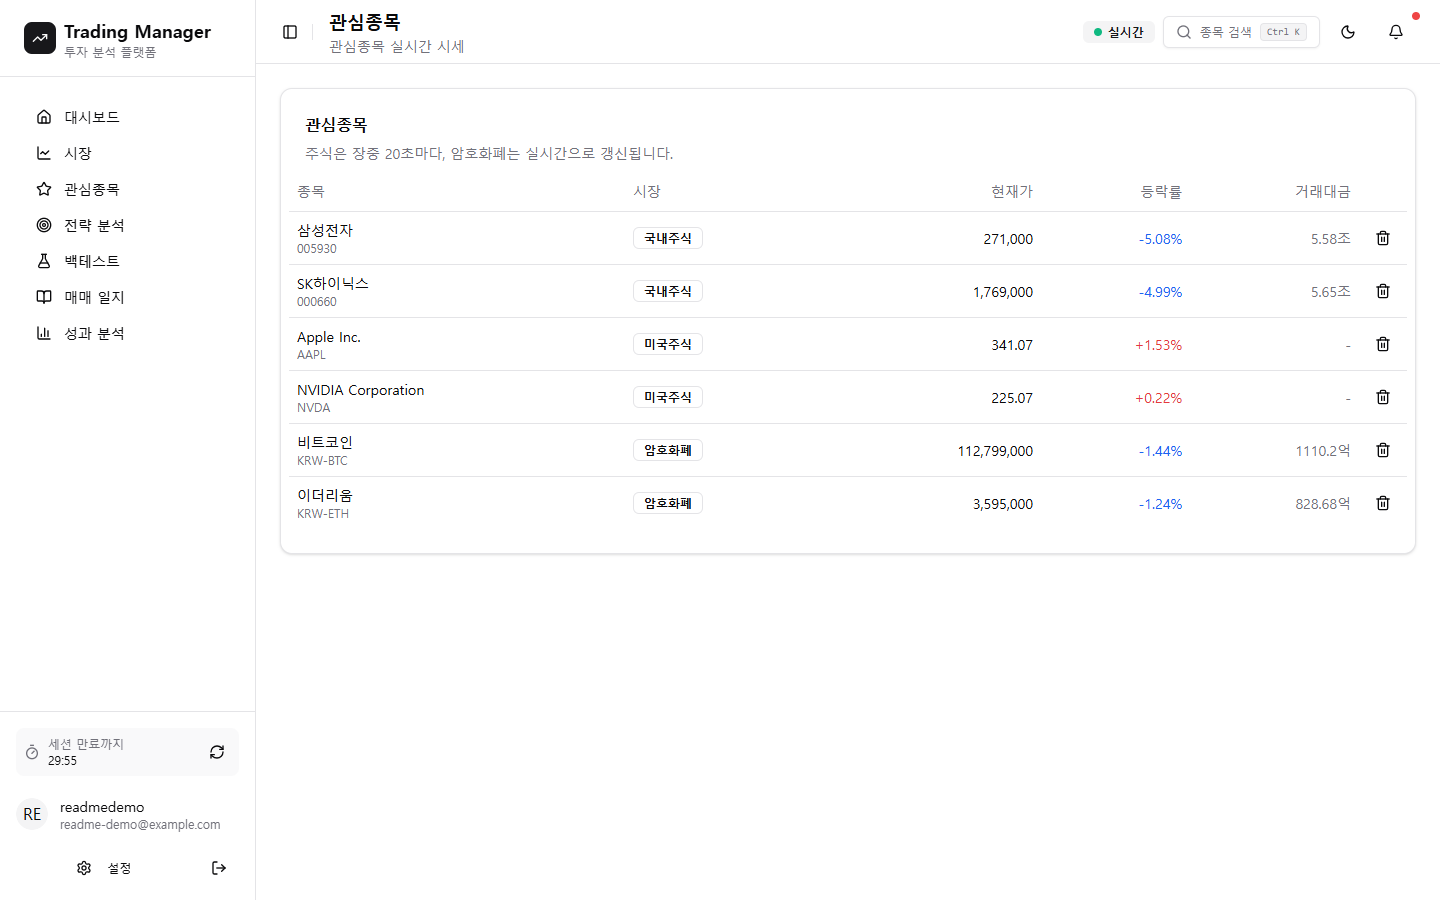
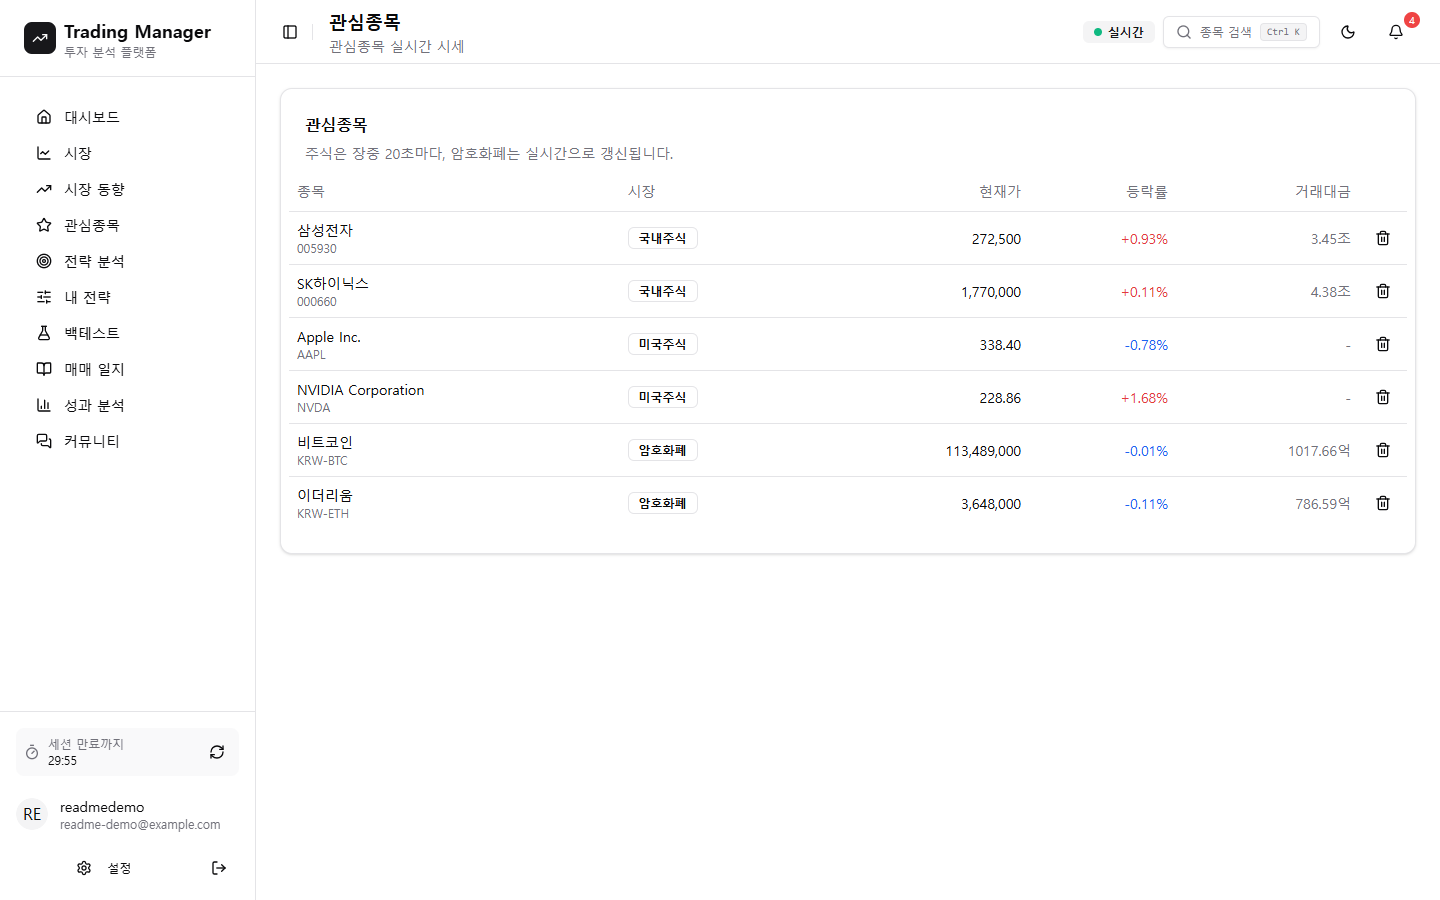
[Update] README 분석 근거·내 전략·시장 동향·커뮤니티 기능 반영
- 기능 절 추가: 시장 동향(브리핑·섹터 로테이션·코인), 내 전략(편집기·미리보기·밴드), 비교 백테스트, 일지 공유, 커뮤니티(전략·일지 게시글·알림·프로필·신고), 신고 관리
- 전략 분석 리포트에 계산 근거 패널·분석 방법 페이지 설명, 구성·계약·API·테스트 수·알려진 문제·로드맵 갱신
- 스크린샷 13장 추가·재촬영, 캡처 스크립트에 내 전략·공유 글·친구 계정(댓글·좋아요·팔로우) 시드와 경로 함수 지원
- CLAUDE.md: 모델 카탈로그/설정·동향·커뮤니티 구조와 enum CHECK 제약·@ActiveProfiles·HTTP/1.1 함정

diff --git a/CLAUDE.md b/CLAUDE.md
@@ -91,7 +91,7 @@ Strong success criteria let you loop independently. Weak criteria ("make it work
 
 ## Overview
 
-`tbill` — market data + charts (KR/US stocks, Upbit crypto) + a quantified strategy score/backtest + a trading journal. Three deployables in one repo, glued by HTTP (market data), Kafka (analysis jobs) and Redis (cache, results, pub/sub):
+`tbill` — market data + charts (KR/US stocks, Upbit crypto) + a quantified, explainable strategy score/backtest that users can customize ("내 전략"), market trends/briefing, a trading journal and a community. Three deployables in one repo, glued by HTTP (market data), Kafka (analysis jobs) and Redis (cache, results, pub/sub):
 
 - `backend-java/` — Spring Boot 3.3.1 / Java 21 REST API (`io.tbill.backendapi`). Owns all persisted data (PostgreSQL/JPA) and JWT auth. Port 8080.
 - `backend-python/` — one package (`app/`), three entrypoints: `app.api.main` (internal FastAPI market-data API, port 8000, `X-Internal-Token`), `app.worker.main` (Kafka analysis consumer), `app.stream.main` (Upbit realtime, single replica).
@@ -165,7 +165,19 @@ Java never calls Python over HTTP for analysis. The handoff is fire-and-forget o
 3. `AnalysisHandler` writes `RUNNING` (backtests add `progress`), then `SUCCESS` or `FAILED` — even for unparseable requests — to Redis at `analysis:{requestId}` (1h TTL, backtests 24h). Payloads are camelCase with `schemaVersion: 2`.
 4. The frontend polls `GET /api/v1/analysis/result/{id}` via `useAnalysisJob`. A cache miss returns `{"status": "PROCESSING"}`; a hit returns Python's JSON verbatim (Java deserializes to `Object` and re-emits, so the Python schema is the API contract — TS mirror in `frontend/src/types/strategy.types.ts`).
 
-The strategy model (`app/analysis/scoring/`, constants in `weights.py`, `MODEL_VERSION`) scores factors in [-1, 1], averages them per group over *available* factors, re-weights groups by coverage, and maps to `score = 50 + 50·C`. Invariant (tested): `50 + Σ factor.contribution == score`. Every factor is a pandas `Series → Series` function so the backtest (`app/analysis/backtest.py`) reuses exactly the live factors; fundamentals and breadth are excluded from backtests because there is no point-in-time history. Indicator formulas (Wilder RSI/ATR, population-σ Bollinger, SMA-seeded EMA) are duplicated in `frontend/src/lib/indicators.ts` for chart overlays — both are tested against the same StockCharts RSI fixture.
+The strategy model (`app/analysis/scoring/`, `MODEL_VERSION` in `weights.py`) scores factors in [-1, 1], averages them per group over *available* factors, re-weights groups by coverage, and maps to `score = 50 + 50·C`. Invariant (tested): `50 + Σ factor.contribution == score`. Every factor is a pandas `Series → Series` function so the backtest (`app/analysis/backtest.py`) reuses exactly the live factors; fundamentals and breadth are excluded from backtests because there is no point-in-time history. Indicator formulas (Wilder RSI/ATR, population-σ Bollinger, SMA-seeded EMA) are duplicated in `frontend/src/lib/indicators.ts` for chart overlays — both are tested against the same StockCharts RSI fixture.
+
+The model is **catalog + config**: `app/analysis/model/catalog.py` holds every factor's description, formula, params (default/min/max) and bands (points `xs→ys`, linear interpolation, clamped ends — `clip_lin(x,s)` is the band `[-s,s]→[-1,1]`); `model/config.py` `StrategyConfig` holds everything a user can change (group/subgroup/factor weights, enabled flags, params, bands, signal thresholds, regime gate, risk multiples). `parse_config(partial)` deep-merges onto the defaults and validates (`ConfigError` 422 with `errors[{path,msg}]`); the default config reproduces v1 exactly. Factor builders take `cfg` and emit `explain` (inputs, band position, weight path) — result `schemaVersion: 3`. The strategy cache key and results carry `config_hash(cfg)`; community strategy shares only accept a backtest whose `config.hash` equals the preset's `configHash`. The validation rules are duplicated in `frontend/src/lib/strategy-config.ts` and `interp` in `frontend/src/lib/bands.ts`.
+
+User presets (`domain/strategy`, `/api/v1/strategies`) store the Python-normalized full config JSON + hash; Java calls `POST /internal/v1/analysis/config/validate` on save. Analysis/backtest requests accept `presetId` (auth required, owner only) or inline `config`; `AnalysisController.applyStrategyConfig` resolves them into `parameters.config` so Python stays stateless.
+
+### Market trends & briefing
+
+`app/market/trends.py` computes sector rotation from sector ETFs (`app/market/sectors.py`: 19 KR, 11 US SPDR; one `yf.download` batch, FDR fallback): 1D/1W/1M/3M returns, excess vs benchmark, RRG-style quadrant (RS-ratio vs its 50-day mean, 10-day momentum) and a leader score. KR also gets Naver industry/theme day moves (`naver_provider.groups/group_stocks`), crypto gets CoinGecko categories (±50% day moves dropped as outliers) and Upbit trade concentration. `app/market/briefing.py` turns overview + regime + trends + movers into deterministic Korean sentences with `evidence`; templates live in the `T` dict and are pinned by tests. Snapshots `briefing:{market}:{date}` (30 days) + zset `briefing:dates:{market}`. Java passes these through as `JsonNode` (`/api/v1/market/trends|briefing`).
+
+### Community
+
+`domain/content` (posts, comments, likes, journal/strategy shares and import via `ShareService`) and `domain/social` (follow, notifications, reports). Responses expose `username` only (`AuthorDirectory`), never emails. Post bodies and journal reasoning HTML are cleaned server-side with jsoup (`global/utils/HtmlSanitizer`) and rendered only through `components/common/SafeHtml` (DOMPurify). Shares store a JSON snapshot in `content.attachment` (journal `hideAmounts` strips quantity/PnL server-side). Notifications are written by `@TransactionalEventListener` + `REQUIRES_NEW` from `CommunityEvents`; self-actions are skipped; the frontend polls `unread-count`. Hidden posts are visible only to their author (`ContentSpecs.visibleTo`). Admin endpoints (`presentation/admin`) use `@PreAuthorize("hasRole('ADMIN')")`; `users.role` drives `CustomUserDetails` authorities and is set by SQL.
 
 Two contracts must be kept in sync manually across languages:
 
@@ -177,7 +189,7 @@ Java serializes with Spring Kafka's `JsonSerializer` (camelCase, `spring.json.tr
 
 ### Java layering
 
-Package structure is a deliberate three-layer split, repeated per domain (`journal`, `user`, `auth`, `content`, `analysis`, `market`, `watchlist`):
+Package structure is a deliberate three-layer split, repeated per domain (`journal`, `user`, `auth`, `content`, `social`, `strategy`, `analysis`, `market`, `watchlist`):
 
 - `presentation/<domain>/` — `Controller` + `<Domain>ApiDto` (the HTTP wire shape: `CreateRequest`, `JournalResponse`, `PagedResponse<T>`).
 - `domain/<domain>/` — `entity`, `repository`, `service` (interface + `Impl`), and `<Domain>Dto` (the service-layer shape: `CreateCommand`, `UpdateCommand`, `SearchCondition`, `JournalInfo`, `Statistics`).
@@ -212,15 +224,18 @@ Python config is a single pydantic-settings `Settings` in `app/config.py` (env v
 - pykrx cross-sectional calls (`get_market_fundamental(date, market="ALL")`, market-wide OHLCV) now require a KRX login and return empty; only per-ticker OHLCV works. KR fundamentals therefore come from Naver (`naver_provider.py`) and are scored with absolute bands, not sector percentiles. Naver and yfinance are unofficial — when one breaks, the fallback chain/circuit breaker keeps the API up; upgrade the library (loose pins in `requirements.txt`).
 - The root `.gitignore` (Python template) ignores `lib/`; `!frontend/src/lib/` re-includes the frontend modules. Check `git check-ignore` before adding another `lib` directory.
 - Schema changes need a manual SQL in `backend-java/src/main/resources/db/manual/` for prod (`ddl-auto: validate`); local `update` never alters existing column types.
-- `global/common/ApiResponse.java`, `global/exception/ErrorCode.java`, `global/exception/CustomException.java`, and `global/exception/TbillExceptionHandler.java` are empty placeholder classes. Error responses actually come from `GlobalExceptionHandler`'s `ErrorResponse` record.
+- `global/common/ApiResponse.java`, `global/exception/ErrorCode.java`, `global/exception/CustomException.java`, and `global/exception/TbillExceptionHandler.java` are empty placeholder classes. Error responses actually come from `GlobalExceptionHandler`'s `ErrorResponse` record (`{code, message, errors?}`); throw `MarketException`/`CommunityException` (code + HTTP status) for API errors.
 - Several security classes are duplicated with only one wired in: `JwtProvider` (used) vs `JwtTokenProvider`, `CustomUserDetailsService` vs `UserDetailsServiceImpl`. Check `SecurityConfig` before extending either.
 - `infrastructure/kafka/consumer/ExampleEventProducer.java` and `infrastructure/kafka/producer/ExampleEventConsumer.java` have their producer/consumer roles swapped relative to their packages.
 - `AuthUtils.getCurrentUserEmail()` now throws `AuthenticationCredentialsNotFoundException` instead of falling back to `"test@example.com"`. `GlobalExceptionHandler` has an `AuthenticationException` handler that maps it to 401 — that handler is load-bearing, because `@RestControllerAdvice` intercepts before `ExceptionTranslationFilter`, so without it the generic `Exception` handler would return 500.
 - `frontend/` has both `package-lock.json` and `pnpm-lock.yaml`. Vite is aliased to `rolldown-vite` via `overrides`.
 - `frontend/src/types/trading.ts` and `trade.types.ts` are unused leftovers. `mock/mock-performance-data.ts` still backs the Performance page.
-- `GlobalExceptionHandler` has no `HttpMessageNotReadableException` handler, so a malformed request body returns 500 rather than 400.
 - **Windows + non-ASCII username breaks `./gradlew test`** with `ClassNotFoundException: GradleWorkerMain`. `sun.jnu.encoding` is MS949 and the worker jar lives under `C:\Users\<Hangul>\.gradle\`, which the JVM cannot open. This is why tests had never run in this tree. Fix: enable Windows' "Beta: Use Unicode UTF-8 for worldwide language support" and reboot; workaround: an ASCII `GRADLE_USER_HOME`. The same encoding issue makes `curl` with a Korean JSON body fail server-side as `Invalid UTF-8 start byte`, and Git-Bash curl sends Korean query strings in CP949 (search returns `[]`) — use ASCII, `--data-binary @file.json`, or a Python HTTP client. Windows PowerShell 5.1 `Invoke-RestMethod` mis-decodes charset-less JSON; `test_integration.ps1` decodes bytes as UTF-8.
 - `Journal.CreateRequest.reasoning` is a `{markdown, images}` object, not a string. Sending a bare string yields 500 (see the missing handler above).
+- Hibernate 6 generates CHECK constraints for `@Enumerated(STRING)` columns, and `ddl-auto: update` never updates them. Adding an enum value to an existing column (e.g. `ContentCategory`) needs a manual SQL that drops/recreates the constraint (see `V5__community.sql`).
+- `@DataJpaTest` without `@ActiveProfiles("test")` starts with the `local` profile and, with `Replace.NONE`, connects to the real dev Postgres. Always add the annotation.
+- `PythonClientConfig` pins the JDK `HttpClient` to HTTP/1.1: the default HTTP/2 client sends an h2c upgrade on plain HTTP and uvicorn drops the POST body.
+- JPA `Sort.Order.nullsLast()` is ignored by Spring Data's Criteria path; community performance sorts filter out rows without the metric instead (`ContentSpecs.hasMetric`).
 - Kafka can fail to start with `InconsistentClusterIdException` when the `kafka_data` and `zookeeper_data` volumes disagree. `docker compose down && docker volume rm trading-manage-app_kafka_data && docker compose up -d` — the volume holds no topic data worth keeping.
 - `frontend/tsconfig.app.tsbuildinfo` is a build artifact that is tracked in git, so it shows as modified after every build.
 
